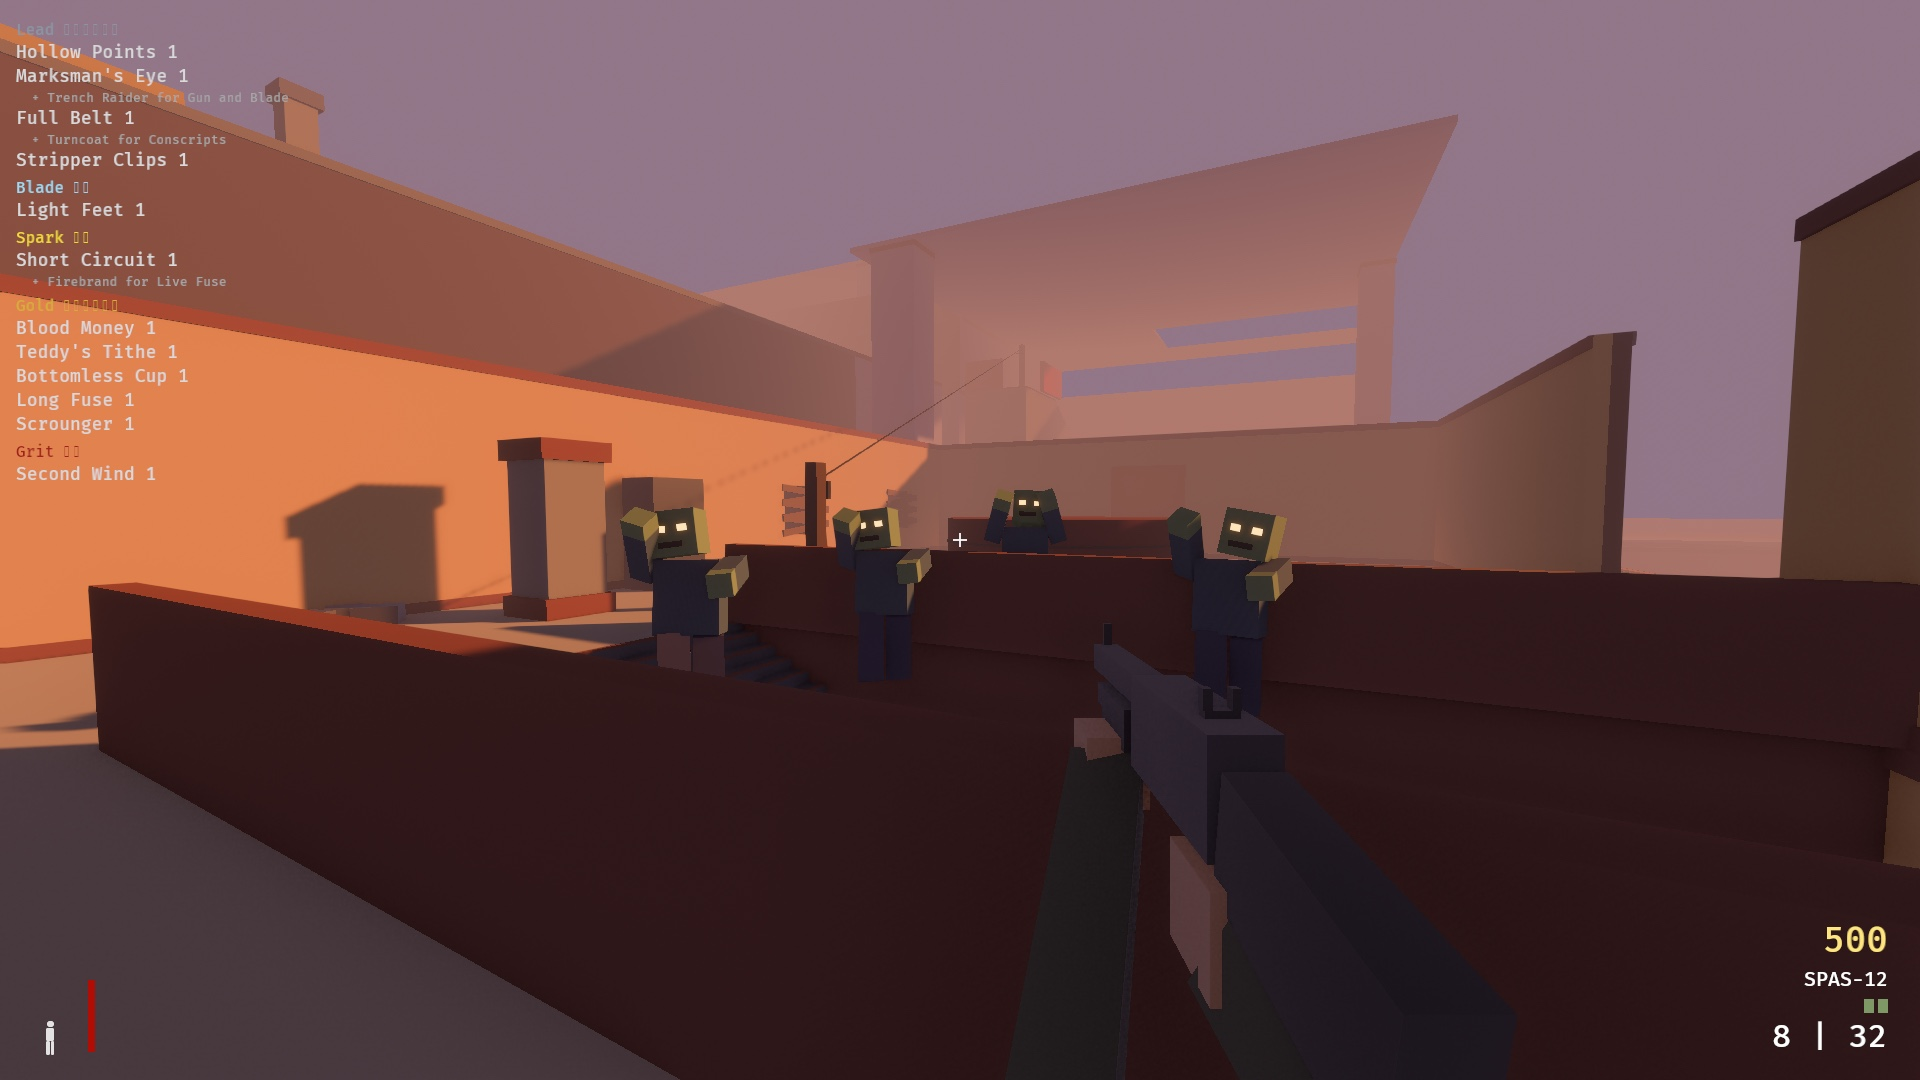
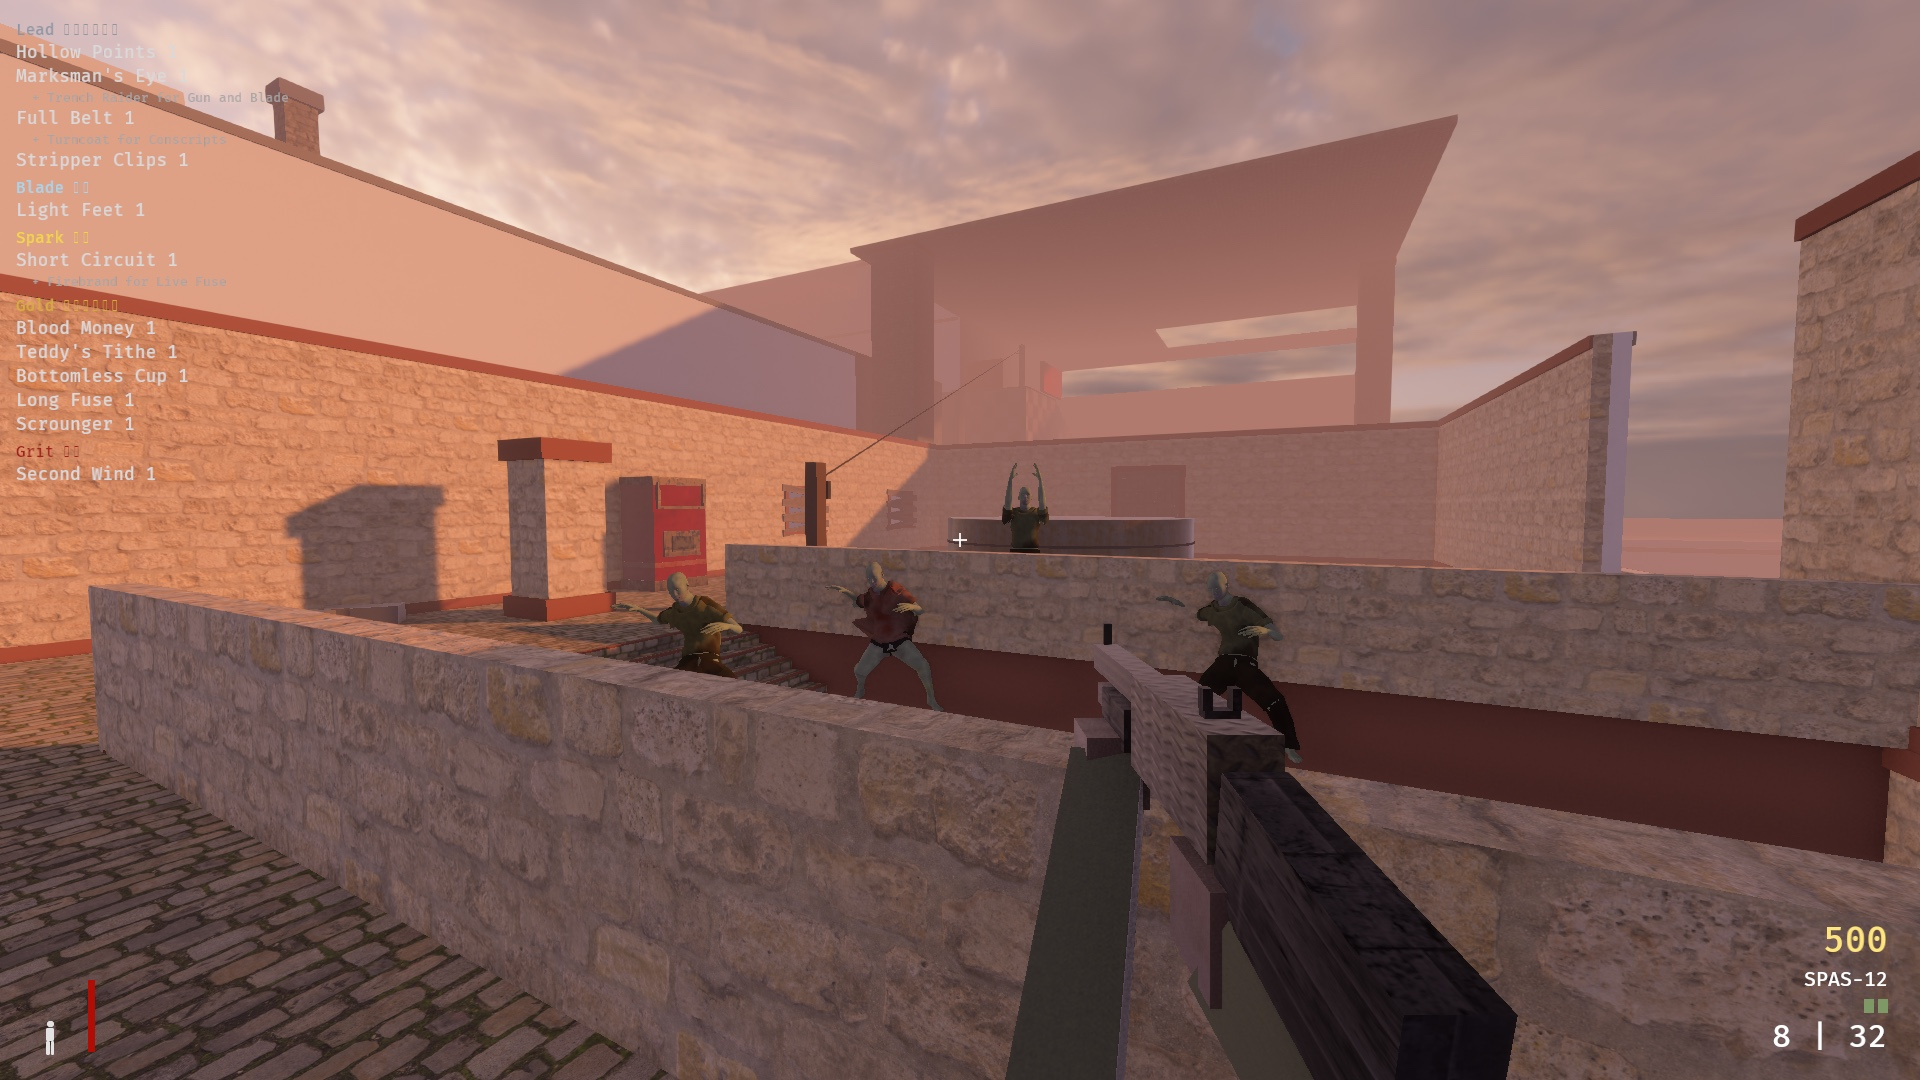
README screenshots (#631): retake all ten with textures
The first set was taken by running the built binary directly, which looks for assets/ beside itself and found none, so every shot was in flat fallback colours. Retaken with BEVY_ASSET_ROOT pointing at the repository. The README's regenerate line and the tour header now say so.

diff --git a/src/tour.rs b/src/tour.rs
@@ -15,7 +15,9 @@
 //! Without it no Zombie is ever about.
 //! `ZOMBIES_TOUR_ONLY=<text>[,<text>...]` keeps only the views whose name contains one of the texts, to shoot a few views again.
 //! A tour writes only into `ZOMBIES_TOUR_OUT`, and saves no Run Record.
-//! Build with `--release`, and run with a scratch `HOME` so no Run Record is kept.
+//! Build with `--release`, and run with a scratch `HOME` so no Run Record is kept. Run the built binary (not `cargo run`: a scratch
+//! `HOME` hides the Rust toolchain) with `BEVY_ASSET_ROOT` set to the repository, or it looks for `assets/` beside itself, finds none,
+//! and every shot comes out in flat fallback colours.
 
 use bevy::prelude::*;
 use bevy::render::view::screenshot::{Screenshot, save_to_disk};

diff --git a/README.md b/README.md
@@ -27,7 +27,7 @@ A single-player and Co-op first-person zombies game, inspired by the round-based
   </tr>
 </table>
 
-Every shot is the game's own output, made with the screenshot tour (`src/tour.rs`). To retake one, build with `cargo build --release`, then run only the binary with a scratch `HOME`, so no Run Record or setting lands in `~/.zombies`: for example `HOME=$(mktemp -d) ZOMBIES_TOUR=village ZOMBIES_TOUR_ONLY=market ZOMBIES_TOUR_WEAPON=ak74u ZOMBIES_TOUR_ZOMBIES=4 ZOMBIES_TOUR_OUT=shots target/release/zombies` (the binary is under `target/<triple>/release/` if `CARGO_BUILD_TARGET` is set). `ZOMBIES_TOUR_MODE=gauntlet` plays a Gauntlet Run, and the header of `src/tour.rs` lists the rest (`ZOMBIES_TOUR_ZOMBIES=3:crawler` picks a kind of Zombie, `ZOMBIES_TOUR_WEAPON=raygun:upgraded` a Pack-a-Punched Weapon).
+Every shot is the game's own output, made with the screenshot tour (`src/tour.rs`). To retake one, build with `cargo build --release`, then run only the binary with a scratch `HOME`, so no Run Record or setting lands in `~/.zombies`: for example `HOME=$(mktemp -d) BEVY_ASSET_ROOT=$PWD ZOMBIES_TOUR=village ZOMBIES_TOUR_ONLY=market ZOMBIES_TOUR_WEAPON=ak74u ZOMBIES_TOUR_ZOMBIES=4 ZOMBIES_TOUR_OUT=shots target/release/zombies` (the binary is under `target/<triple>/release/` if `CARGO_BUILD_TARGET` is set). Keep `BEVY_ASSET_ROOT` pointing at the repository: a binary run directly looks for `assets/` beside itself (`cargo run` sets this for you), and without them the game falls back to flat colours. `ZOMBIES_TOUR_MODE=gauntlet` plays a Gauntlet Run, and the header of `src/tour.rs` lists the rest (`ZOMBIES_TOUR_ZOMBIES=3:crawler` picks a kind of Zombie, `ZOMBIES_TOUR_WEAPON=raygun:upgraded` a Pack-a-Punched Weapon).
 
 Everything pictured is the game's own CC0 assets and code, so the screenshots fall under the licence below.
 
